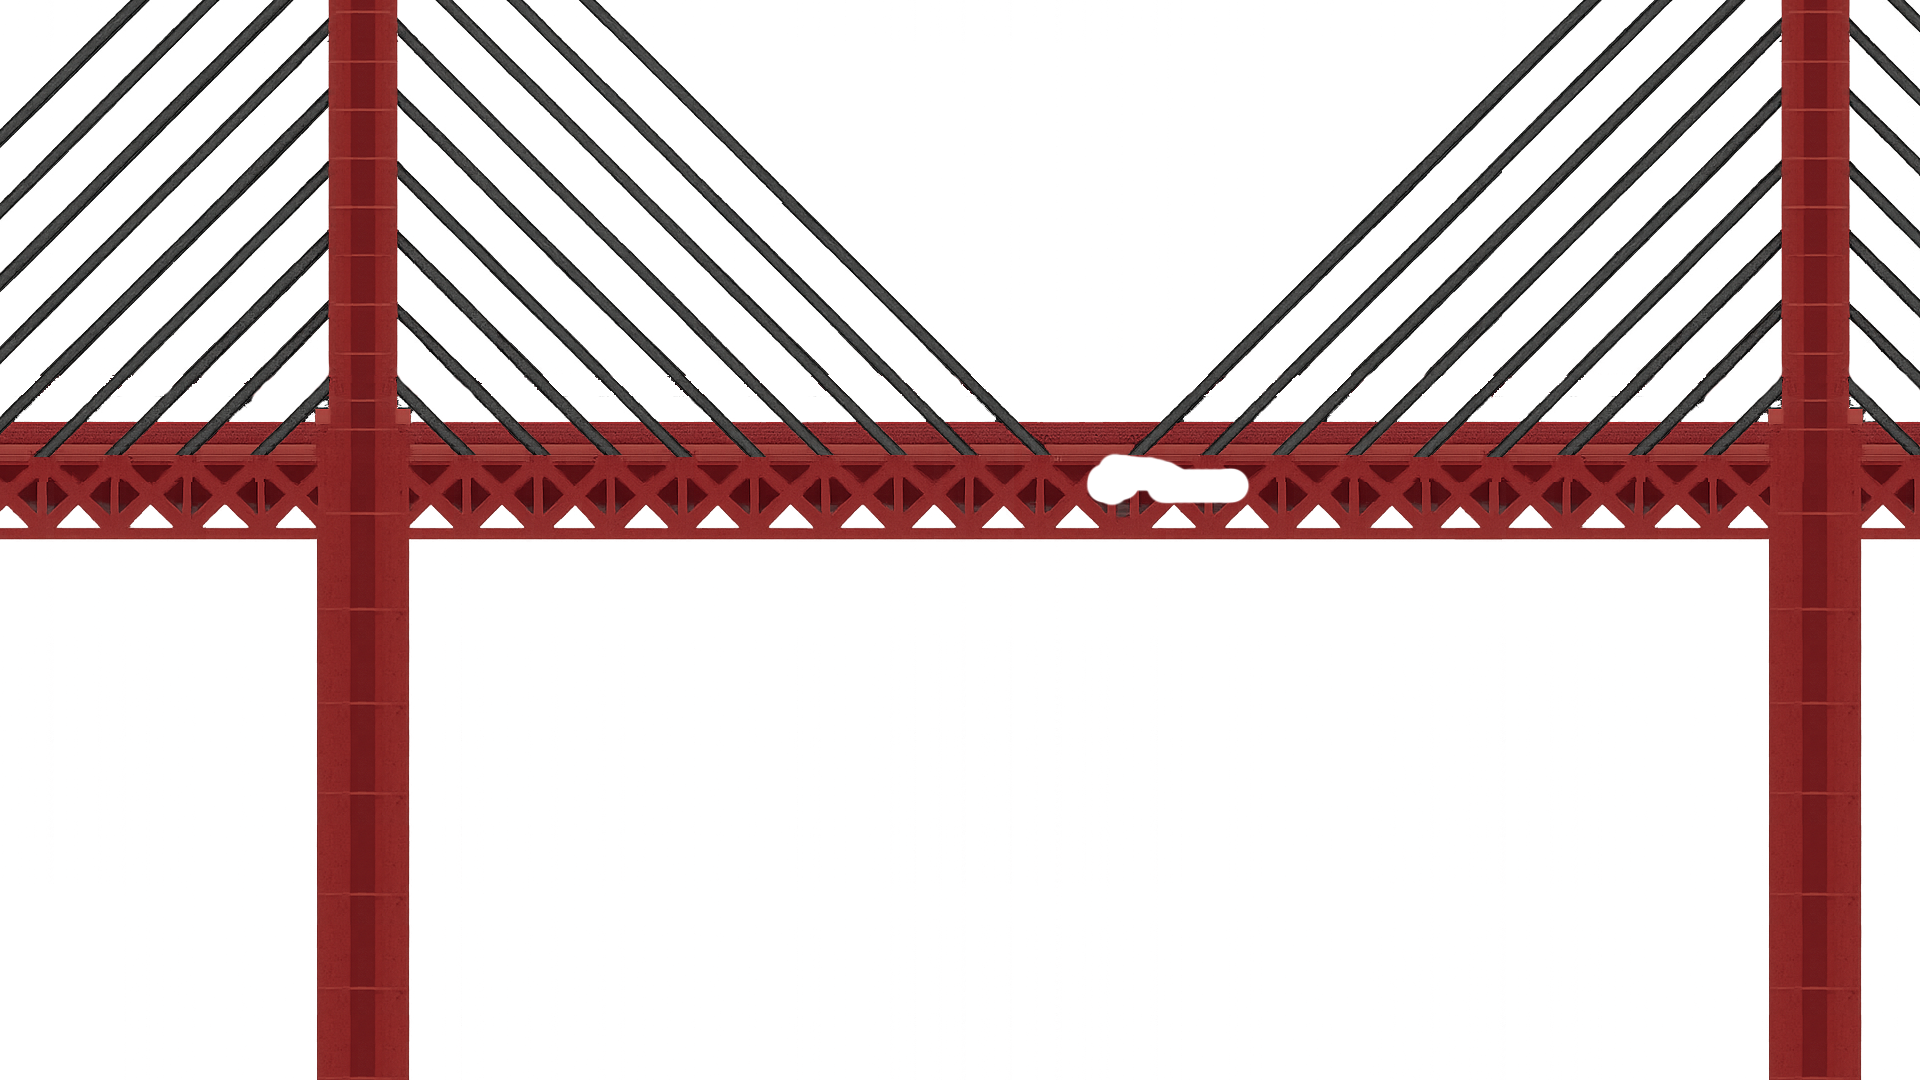
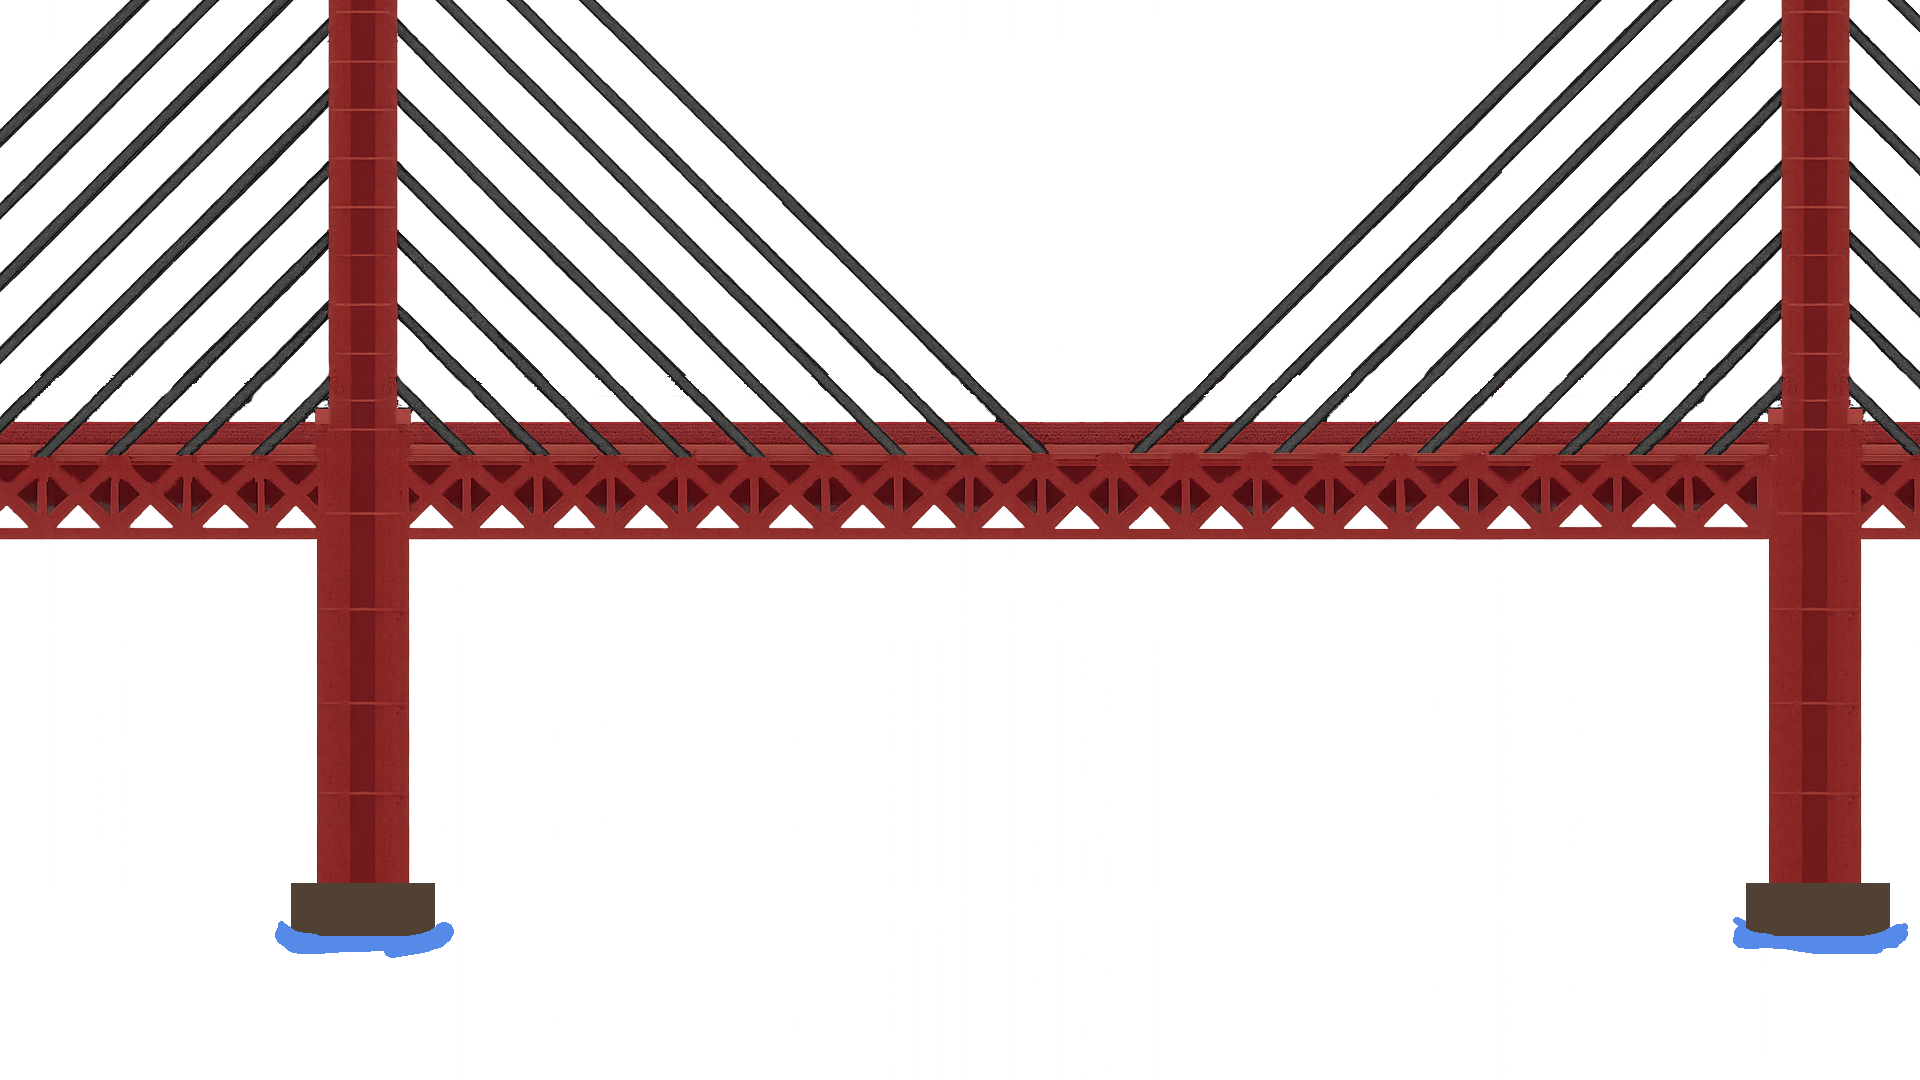
Se cambio el sprite del puente para que toque el agua, se disminuyo la hitbox de los autos y se añadio una clase trashSpawner que hace que aparezca basura que se mueve verticalmente cada cierto tiempo

Changed region(s): [[0.5625, 0.3972, 0.9375, 0.4889], [0.125, 0.7944, 0.25, 1.0], [0.9062, 0.7944, 1.0, 1.0]]

diff --git a/src/game/classes/trash.js b/src/game/classes/trash.js
@@ -1,0 +1,53 @@
+let trashCounter = 0;
+
+export class Trash extends Phaser.Physics.Arcade.Sprite {
+    constructor(scene, x, y, key) {
+        super(scene, x, y, key)
+        this.initialX = x;
+        this._trashId = ++trashCounter;
+
+        console.log(`%cse CREO trasg id: ${this._trashId}`, "color: aqua")
+        scene.add.existing(this);
+        scene.physics.add.existing(this);
+
+
+        this.body.setAllowGravity(false);
+        this.setActive(false);
+        this.setVisible(false);
+        this.setScale(0.5);
+    }
+
+    activate(num, skin) {
+        console.log(`%cACTIVANDO trash id ${this._trashId}`, "color: orange")
+        this.setTexture(skin);
+        this.body.setSize(this.width, this.height);
+        this.body.setOffset(0, 0);
+        this.setActive(true);
+        this.setVisible(true);
+        this.body.enable = true;
+        this.initialX = num;
+
+
+    }
+
+    place(randomVelocity) {
+        this.setPosition(this.initialX, 300)
+        this.body.setVelocityY(randomVelocity)
+    }
+
+    deactivate() {
+        this.setActive(false);
+        this.setVisible(false);
+        this.body.enable = false;
+        console.log(`%cSe desactivo trash id: ${this._trashId}`, "color: red")
+    }
+
+    update(num) {
+        if (this.y > 1200) this.deactivate();
+
+        this.body.setVelocityY(num === 0 ? 200 : 100)
+    }
+
+
+
+}

diff --git a/src/game/classes/trashSpawner.js b/src/game/classes/trashSpawner.js
@@ -1,0 +1,40 @@
+import { Trash } from '../classes/trash';
+export class TrashSpawner {
+    constructor(scene, player) {
+        this.scene = scene;
+        this.player = player;
+        this.timer = 5000;
+        this.trashList = scene.physics.add.group({
+            classType: Trash,
+            runChildUpdate: true,
+            maxSize: 30
+        });
+    }
+    spawn() {
+        const randomVelocity = Phaser.Math.Between(100, 300)
+        const randomX = Phaser.Math.Between(300, 1600)
+        const randomSkin = Phaser.Math.Between(1, 3);
+        let skin = "beer"
+        // if (randomSkin === 1) skin = "auto1"
+        // if (randomSkin === 2) skin = "auto2"
+        // if (randomSkin === 3) skin = "auto3"
+        const trash = this.trashList.get(randomX, 360, skin);
+        if (!trash) {
+            console.log("trash no existe negro no se que hiciste mal")
+        }
+        if (trash) {
+            console.log("intentando activar trash!");
+            trash.activate(randomX, skin);
+            trash.place(randomVelocity);
+            // this.scene.physics.add.overlap(this.player, trash, () => { this.player.hit() });
+        }
+    }
+
+    update(dt) {
+        this.timer += dt;
+        if (this.timer >= 5000) {
+            this.timer = 0;
+            this.spawn()
+        }
+    }
+}

diff --git a/src/game/scenes/MainMenu.js b/src/game/scenes/MainMenu.js
@@ -2,6 +2,7 @@ import { Scene } from 'phaser';
 import { Player } from '../classes/player';
 import { Bridge } from '../classes/bridge';
 import { CarSpawner } from '../classes/carSpawner';
+import { TrashSpawner } from '../classes/trashSpawner.js';
 
 export class MainMenu extends Scene {
     constructor() {
@@ -26,6 +27,7 @@ export class MainMenu extends Scene {
         this.bridge = new Bridge(this, 960, 480, "logo")
         this.player = new Player(this, 960, 340, "blanco");
         this.carSpawner = new CarSpawner(this, this.bridge, this.player);
+        this.trashSpawner = new TrashSpawner(this, this.player);
 
 
         this.add.text(512, 460, 'Santa Fe', {
@@ -35,13 +37,14 @@ export class MainMenu extends Scene {
         }).setOrigin(0.5);
         this.add.image(960, 540, 'puenteAdelante').setDepth(50);
 
-        this.bridge.setScale(4, 1);
+        this.bridge.setScale(8, 1);
         this.physics.add.collider(this.bridge, this.player);
     }
 
     update(t, dt) {
         this.player.update(dt);
-        this.carSpawner.update(dt)
+        this.carSpawner.update(dt);
+        this.trashSpawner.update(dt);
 
     }
 }

diff --git a/src/game/classes/car.js b/src/game/classes/car.js
@@ -22,8 +22,8 @@ export class Car extends Phaser.Physics.Arcade.Sprite {
     activate(num, skin) {
         console.log(`%cACTIVANDO id ${this._carId}`, "color: orange")
         this.setTexture(skin);
-        this.body.setSize(this.width, this.height);
-        this.body.setOffset(0, 0);
+        this.body.setSize(this.width * 0.8, this.height * 0.8);
+        this.body.setOffset(this.width * 0.1, this.height * 0.2);
         this.setActive(true);
         this.setVisible(true);
         this.body.enable = true;

diff --git a/src/game/classes/player.js b/src/game/classes/player.js
@@ -40,7 +40,7 @@ export class Player extends Phaser.Physics.Arcade.Sprite {
         this.body.setVelocityX(vx);
     }
     jumping() {
-        if ((this.cursors.up.isDown) && (this.body.blocked.down)) this.body.setVelocityY(-300);
+        if ((this.cursors.up.isDown) && (this.body.blocked.down)) this.body.setVelocityY(-350);
         if ((this.cursors.down.isDown) && (!this.body.blocked.down)) this.body.setVelocityY(this.body.velocity.y += 10);
 
     }
